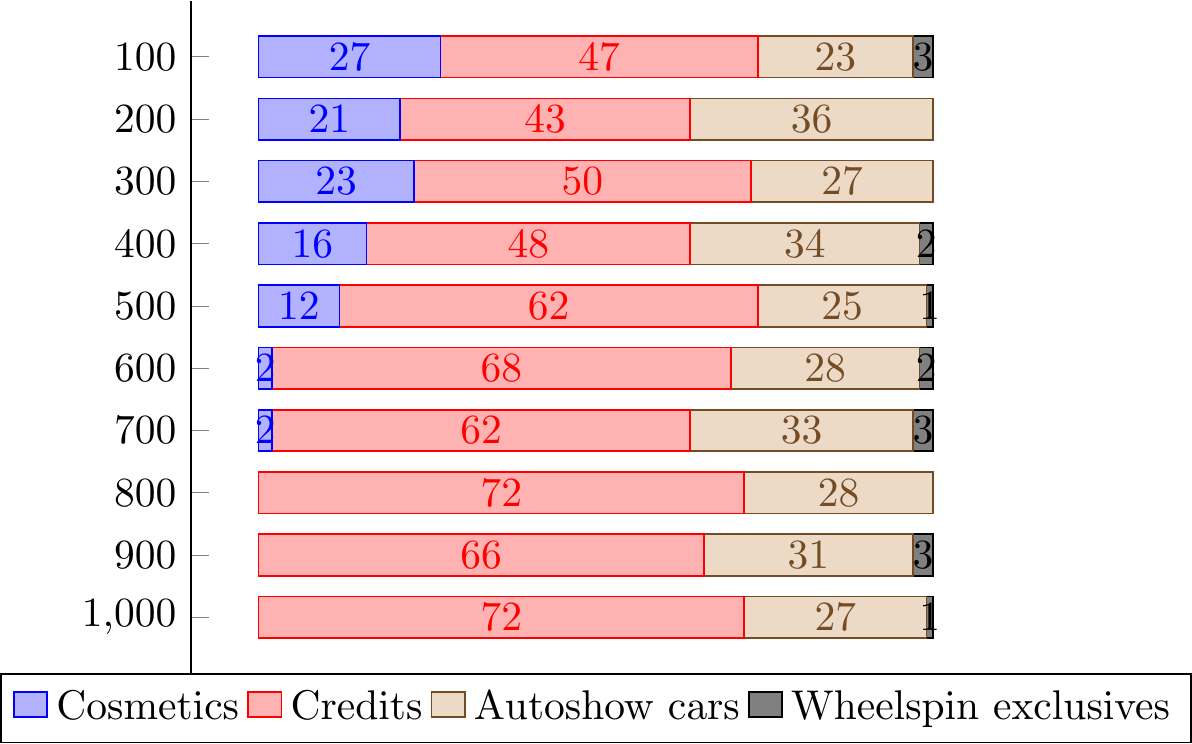
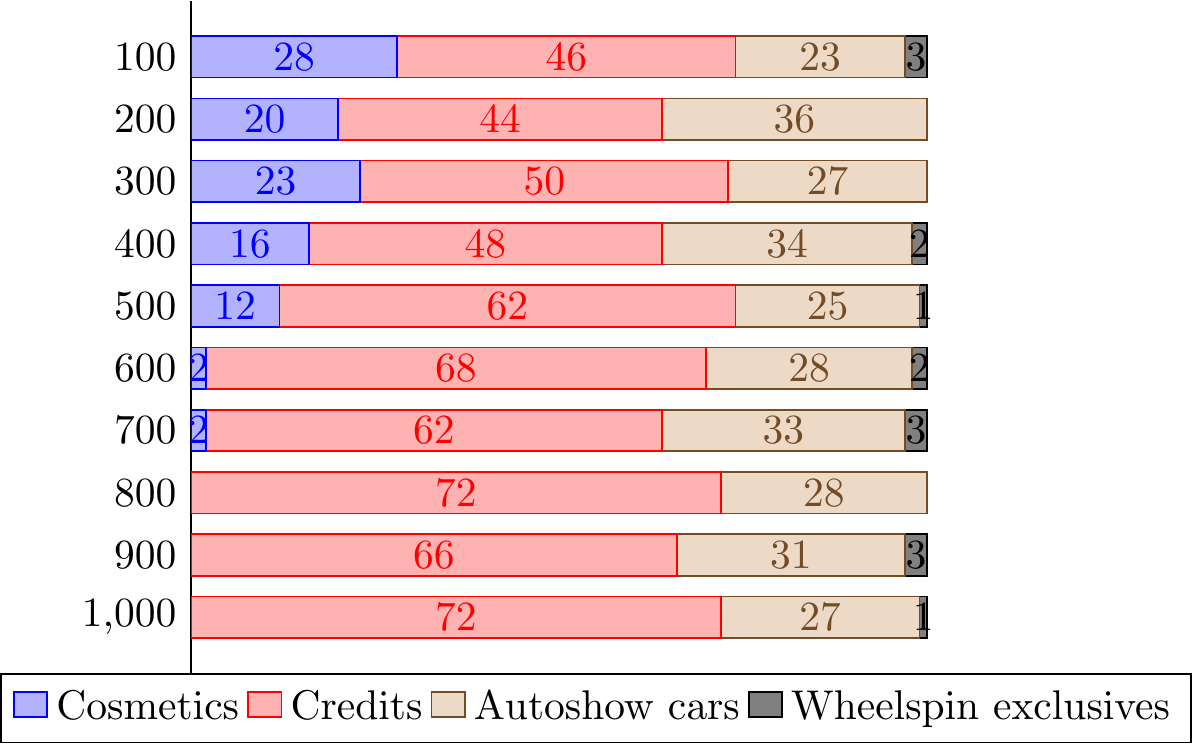
Fix two faulty credit records in wheelspins.txt.

diff --git a/README.md b/README.md
@@ -28,7 +28,7 @@ I was able to find a few Reddit posts with similar goals.
 Analysis
 ========
 
-I recorded 1809 entries in `wheelspins.txt`.
+I recorded 1808 entries in `wheelspins.txt`.
 I recorded each entry in the same order in which I spun the wheelspins
 (i.e. opened the lootboxes)
 This means that,
@@ -86,7 +86,7 @@ to wheelspins 501 to 600,
 and 601 to 700):
 I got one legendary one-million-credits wheelspin in each case.
 If I remove the two outliers,
-the two marks sitting slightly above 55k drops to 42194 and 40836,
+the two marks sitting slightly above 55k drops to 42418 and 40836,
 respectively.
 
 For the cars,
@@ -96,11 +96,11 @@ which is worth 10 million credits.
 Overall,
 I rolled six cars worth over one million credits on regular wheelspins:
 - regular wheelspin #9, worth 2.1 million credits, the 1965 Shelby Cobra 427 S/C;
-- regular wheelspin #112, worth 3.1 million credits, the 1984 Ferrari 288 GTO;
-- regular wheelspin #294, worth 1.2 million credits, the 1954 Mercedes-Benz 300 SL Coupé;
-- regular wheelspin #590, worth 2.3 million credits, the 2016 Lamborghini Centenario LP 770-4;
-- regular wheelspin #791, worth 10 million credits, the 1939 Mercedes-Benz W154; and
-- regular wheelspin #930, worth 2.0 million credits, the 1995 Ferrari F50.
+- regular wheelspin #111, worth 3.1 million credits, the 1984 Ferrari 288 GTO;
+- regular wheelspin #293, worth 1.2 million credits, the 1954 Mercedes-Benz 300 SL Coupé;
+- regular wheelspin #589, worth 2.3 million credits, the 2016 Lamborghini Centenario LP 770-4;
+- regular wheelspin #790, worth 10 million credits, the 1939 Mercedes-Benz W154; and
+- regular wheelspin #929, worth 2.0 million credits, the 1995 Ferrari F50.
 
 Removing the outliers gives the following (combined) graph:
 
@@ -133,6 +133,15 @@ to estimate,
 for example,
 the probability of getting a cosmetic from a super wheelspin;
 hence the restriction to regular wheelspins.
+
+Lastly,
+I had to alter two records during the analysis.
+One was a 175k credits rewards that was labeled as a "rare" prize,
+which I relabeled it to an "epic" prize;
+and a 230k epic credits prize.
+Since that record was the only one of its kind,
+it was most definitely a misrecording,
+so I simply removed that record from the dataset.
 
 Comparison to Super Wheelspins
 ------------------------------
@@ -168,9 +177,9 @@ The overall rarity distribution is the following.
 
 |                                 | Common      | Rare        | Epic        | Legendary | Forza Edition |
 |---------------------------------+-------------+-------------+-------------+-----------+---------------|
-| Regular Wheelspins (all)        | 677 (65.3%) | 210 (20.3%) | 117 (11.3%) | 27 (2.6%) | 6 (0.6%)      |
-| Regular Wheelspins (early game) | 446 (63.7%) | 150 (21.4%) | 77 (11.0%)  | 22 (3.1%) | 5 (0.7%)      |
-| Regular Wheelspins (late game)  | 231 (68.5%) | 60 (17.8%)  | 40 (11.9%)  | 5 (1.5%)  | 1 (0.3%)      |
+| Regular Wheelspins (all)        | 677 (65.3%) | 209 (20.2%) | 117 (11.3%) | 27 (2.6%) | 6 (0.6%)      |
+| Regular Wheelspins (early game) | 447 (63.9%) | 149 (21.3%) | 77 (11.0%)  | 22 (3.1%) | 5 (0.7%)      |
+| Regular Wheelspins (late game)  | 230 (68.5%) | 60 (17.9%)  | 40 (11.9%)  | 5 (1.5%)  | 1 (0.3%)      |
 | Super Wheelspins (all wheels)   | 544 (70.6%) | 61 (7.9%)   | 94 (12.2%)  | 48 (6.2%) | 24 (3.1%)     |
 | Super Wheelspin (left wheel)    | 182 (71.1%) | 17 (6.6%)   | 26 (10.2%)  | 17 (6.6%) | 14 (5.5%)     |
 | Super Wheelspin (center wheel)  | 183 (70.9%) | 19 (7.4%)   | 31 (12.0%)  | 20 (7.8%) | 5 (1.9%)      |
@@ -209,9 +218,9 @@ we have the following distribution of prize types.
 
 |                                 | Cosmetics   | Credits     | Autoshow cars | Wheelspin exclusives |
 |---------------------------------+-------------+-------------+---------------+----------------------|
-| Regular Wheelspins (all)        | 103 (9.9%)  | 621 (59.9%) | 298 (28.7%)   | 15 (1.4%)            |
+| Regular Wheelspins (all)        | 103 (9.9%)  | 620 (59.8%) | 298 (28.8%)   | 15 (1.4%)            |
 | Regular Wheelspins (early game) | 103 (14.7%) | 380 (54.3%) | 206 (29.4%)   | 11 (1.6%)            |
-| Regular Wheelspins (late game)  | 0 (0.0%)    | 241 (71.5%) | 92 (27.3%)    | 4 (1.2%)             |
+| Regular Wheelspins (late game)  | 0 (0.0%)    | 240 (71.4%) | 92 (27.4%)    | 4 (1.2%)             |
 | Super Wheelspins (all wheels)   | 0 (0.0%)    | 573 (74.3%) | 170 (22.0%)   | 28 (3.6%)            |
 | Super Wheelspin (left wheel)    | 0 (0.0%)    | 194 (75.8%) | 47 (18.4%)    | 15 (5.9%)            |
 | Super Wheelspin (center wheel)  | 0 (0.0%)    | 189 (73.3%) | 62 (24.0%)    | 7 (2.7%)             |
@@ -229,9 +238,9 @@ The table below contains the average value of the prizes.
 
 |                                 | Credits | Cars    | Combined | Credits (no outliers) | Cars (no outliers) | Combined (no outliers) |
 |---------------------------------+---------+---------+----------+-----------------------+--------------------+------------------------|
-| Regular Wheelspins (all)        | 52,799  | 144,629 | 59,339   | 48,201                | 80,029             | 45,484                 |
-| Regular Wheelspins (early game) | 56,366  | 122,313 | 58,107   | 51,373                | 83,765             | 47,953                 |
-| Regular Wheelspins (late game)  | 47,174  | 195,073 | 61,521   | 43,204                | 71,564             | 41,115                 |
+| Regular Wheelspins (all)        | 52,513  | 144,629 | 59,156   | 47,906                | 80,029             | 45,284                 |
+| Regular Wheelspins (early game) | 55,813  | 122,313 | 57,755   | 50,817                | 83,765             | 47,597                 |
+| Regular Wheelspins (late game)  | 47,288  | 195,073 | 61,644   | 43,301                | 71,564             | 41,179                 |
 | Super Wheelspins (all wheels)   | 47,679  | 231,318 | 65,137   | 47,679                | 184,461            | 58,904                 |
 | Super Wheelspin (left wheel)    | 41,830  | 264,113 | 63,682   | 41,830                | 222,541            | 58,441                 |
 | Super Wheelspin (center wheel)  | 50,053  | 256,362 | 70,948   | 50,053                | 158,292            | 57,498                 |
@@ -255,7 +264,6 @@ each wheel of a super wheelspin was worth 65,137 credits for me,
 but removing the outliers the combined average was 58,904.
 This means that a singular super wheelspin is worth about 177k credits
 (counting the three wheels together).
-
 
 ### More details about the dataset
 
